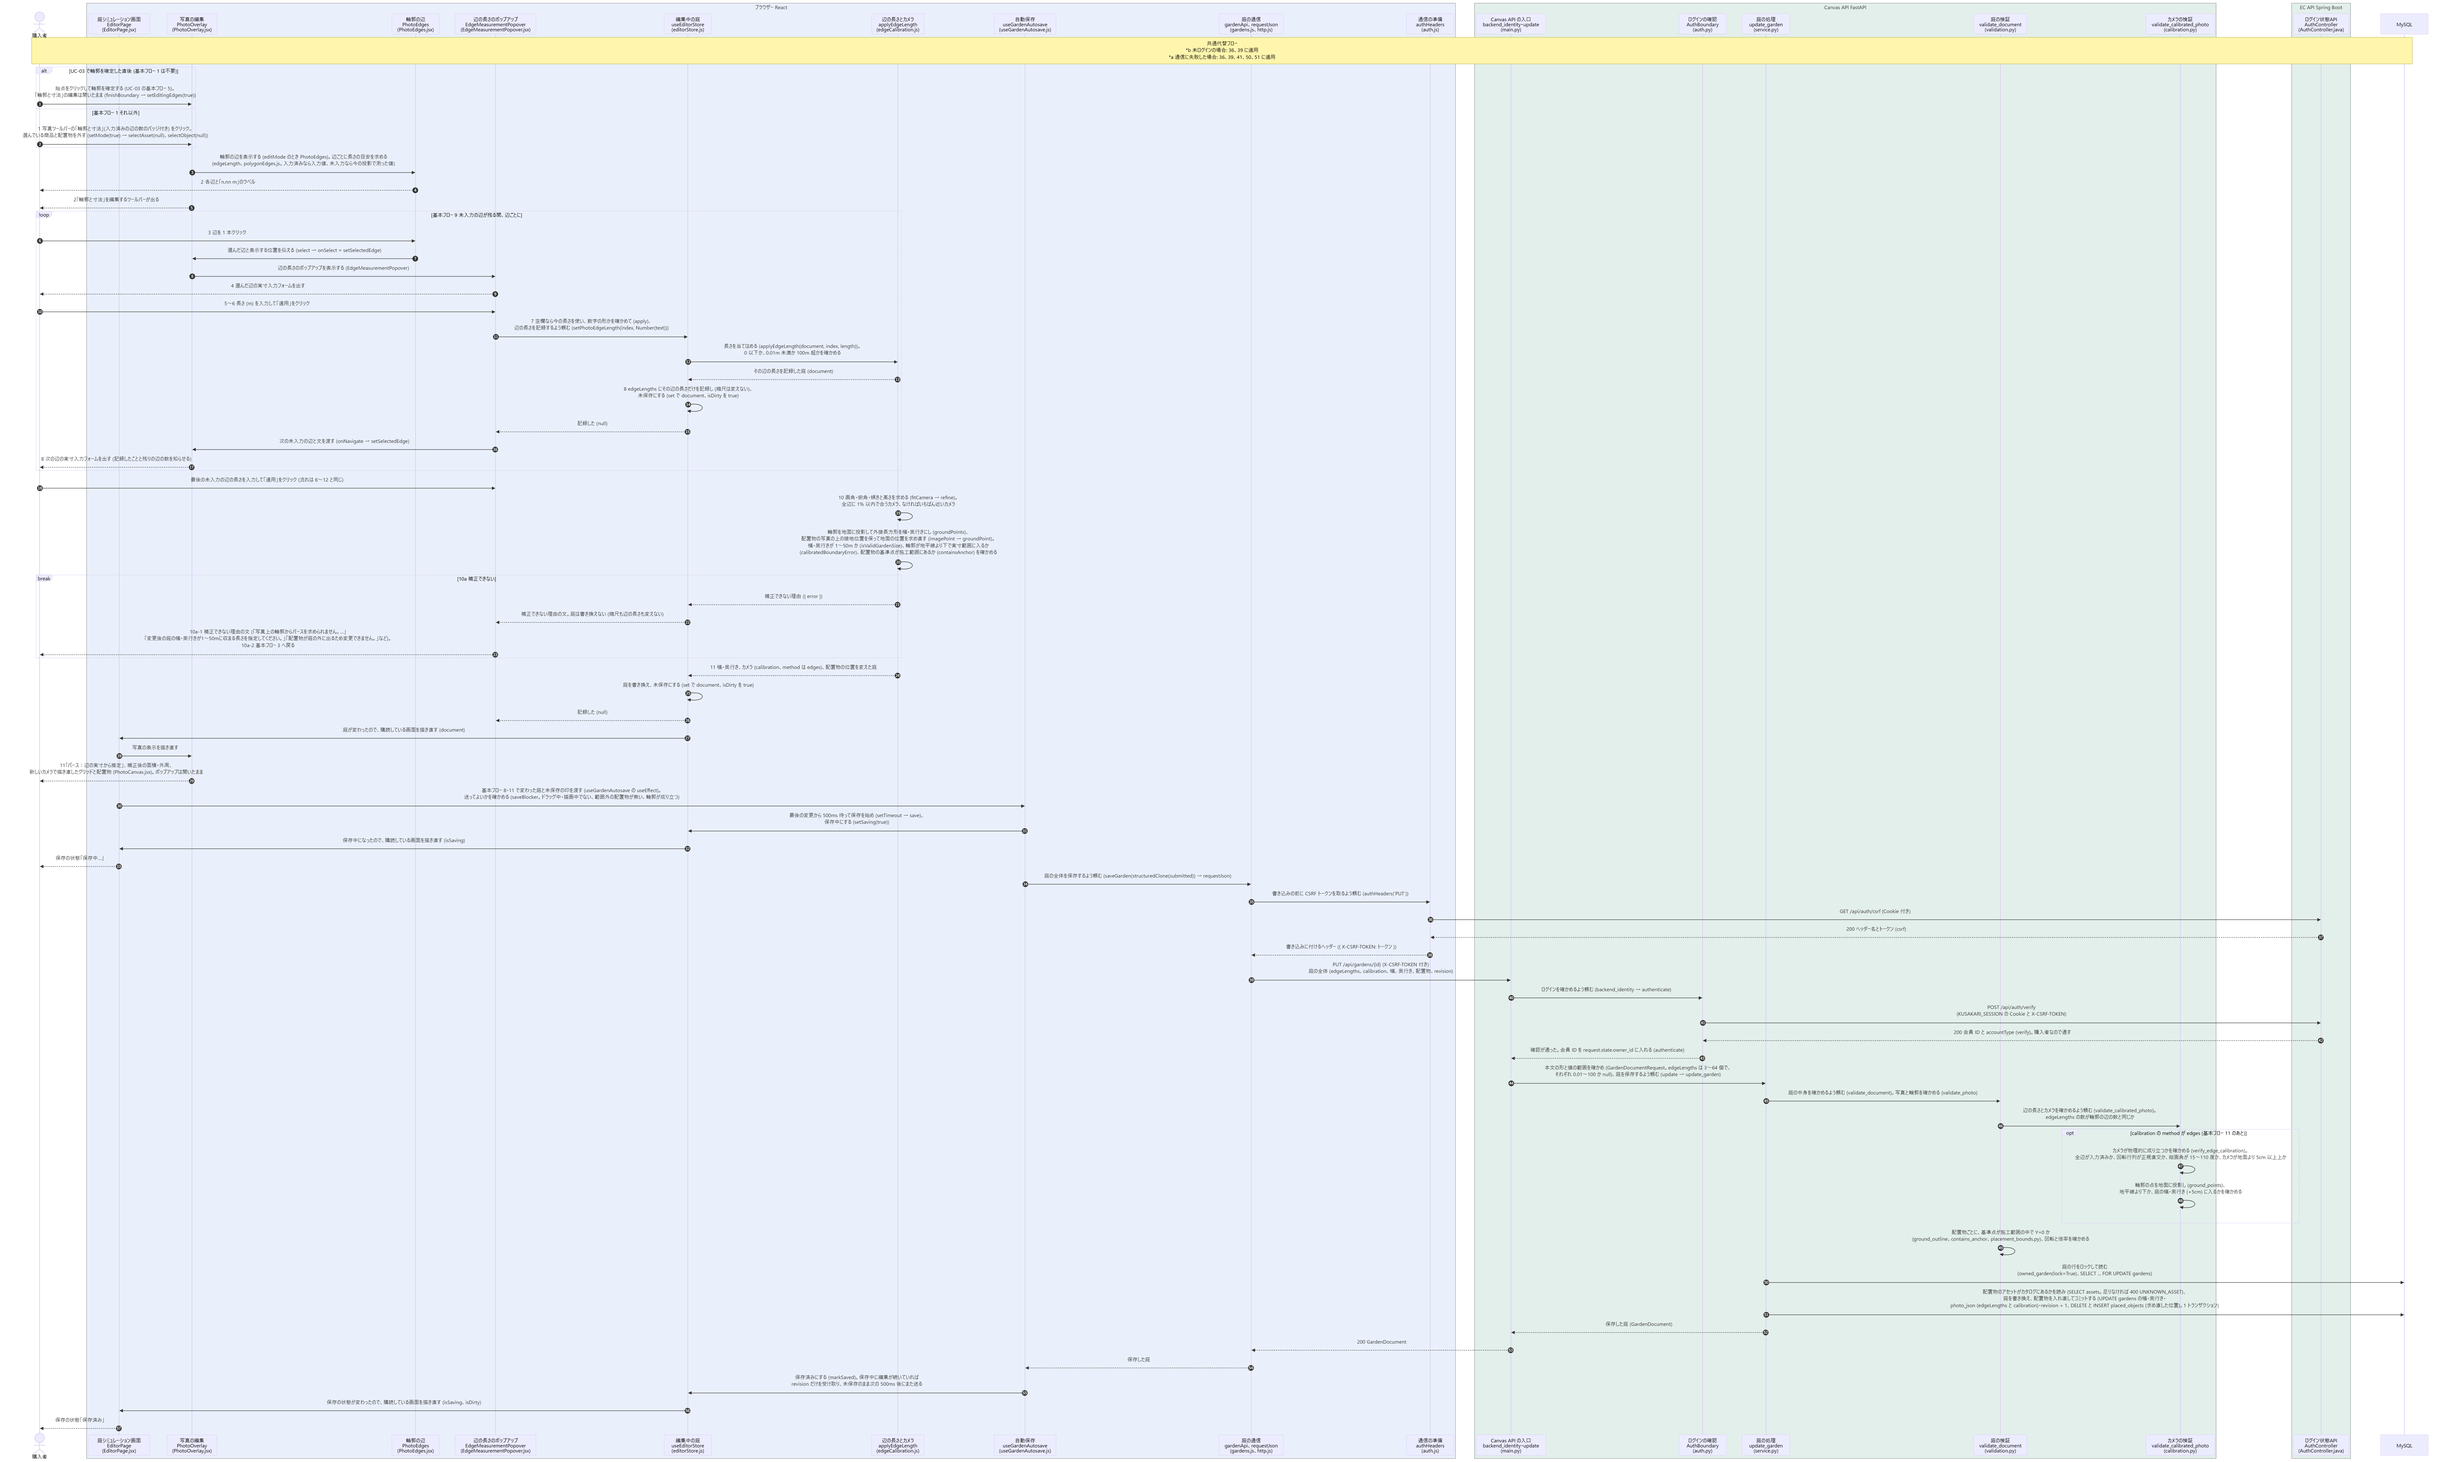
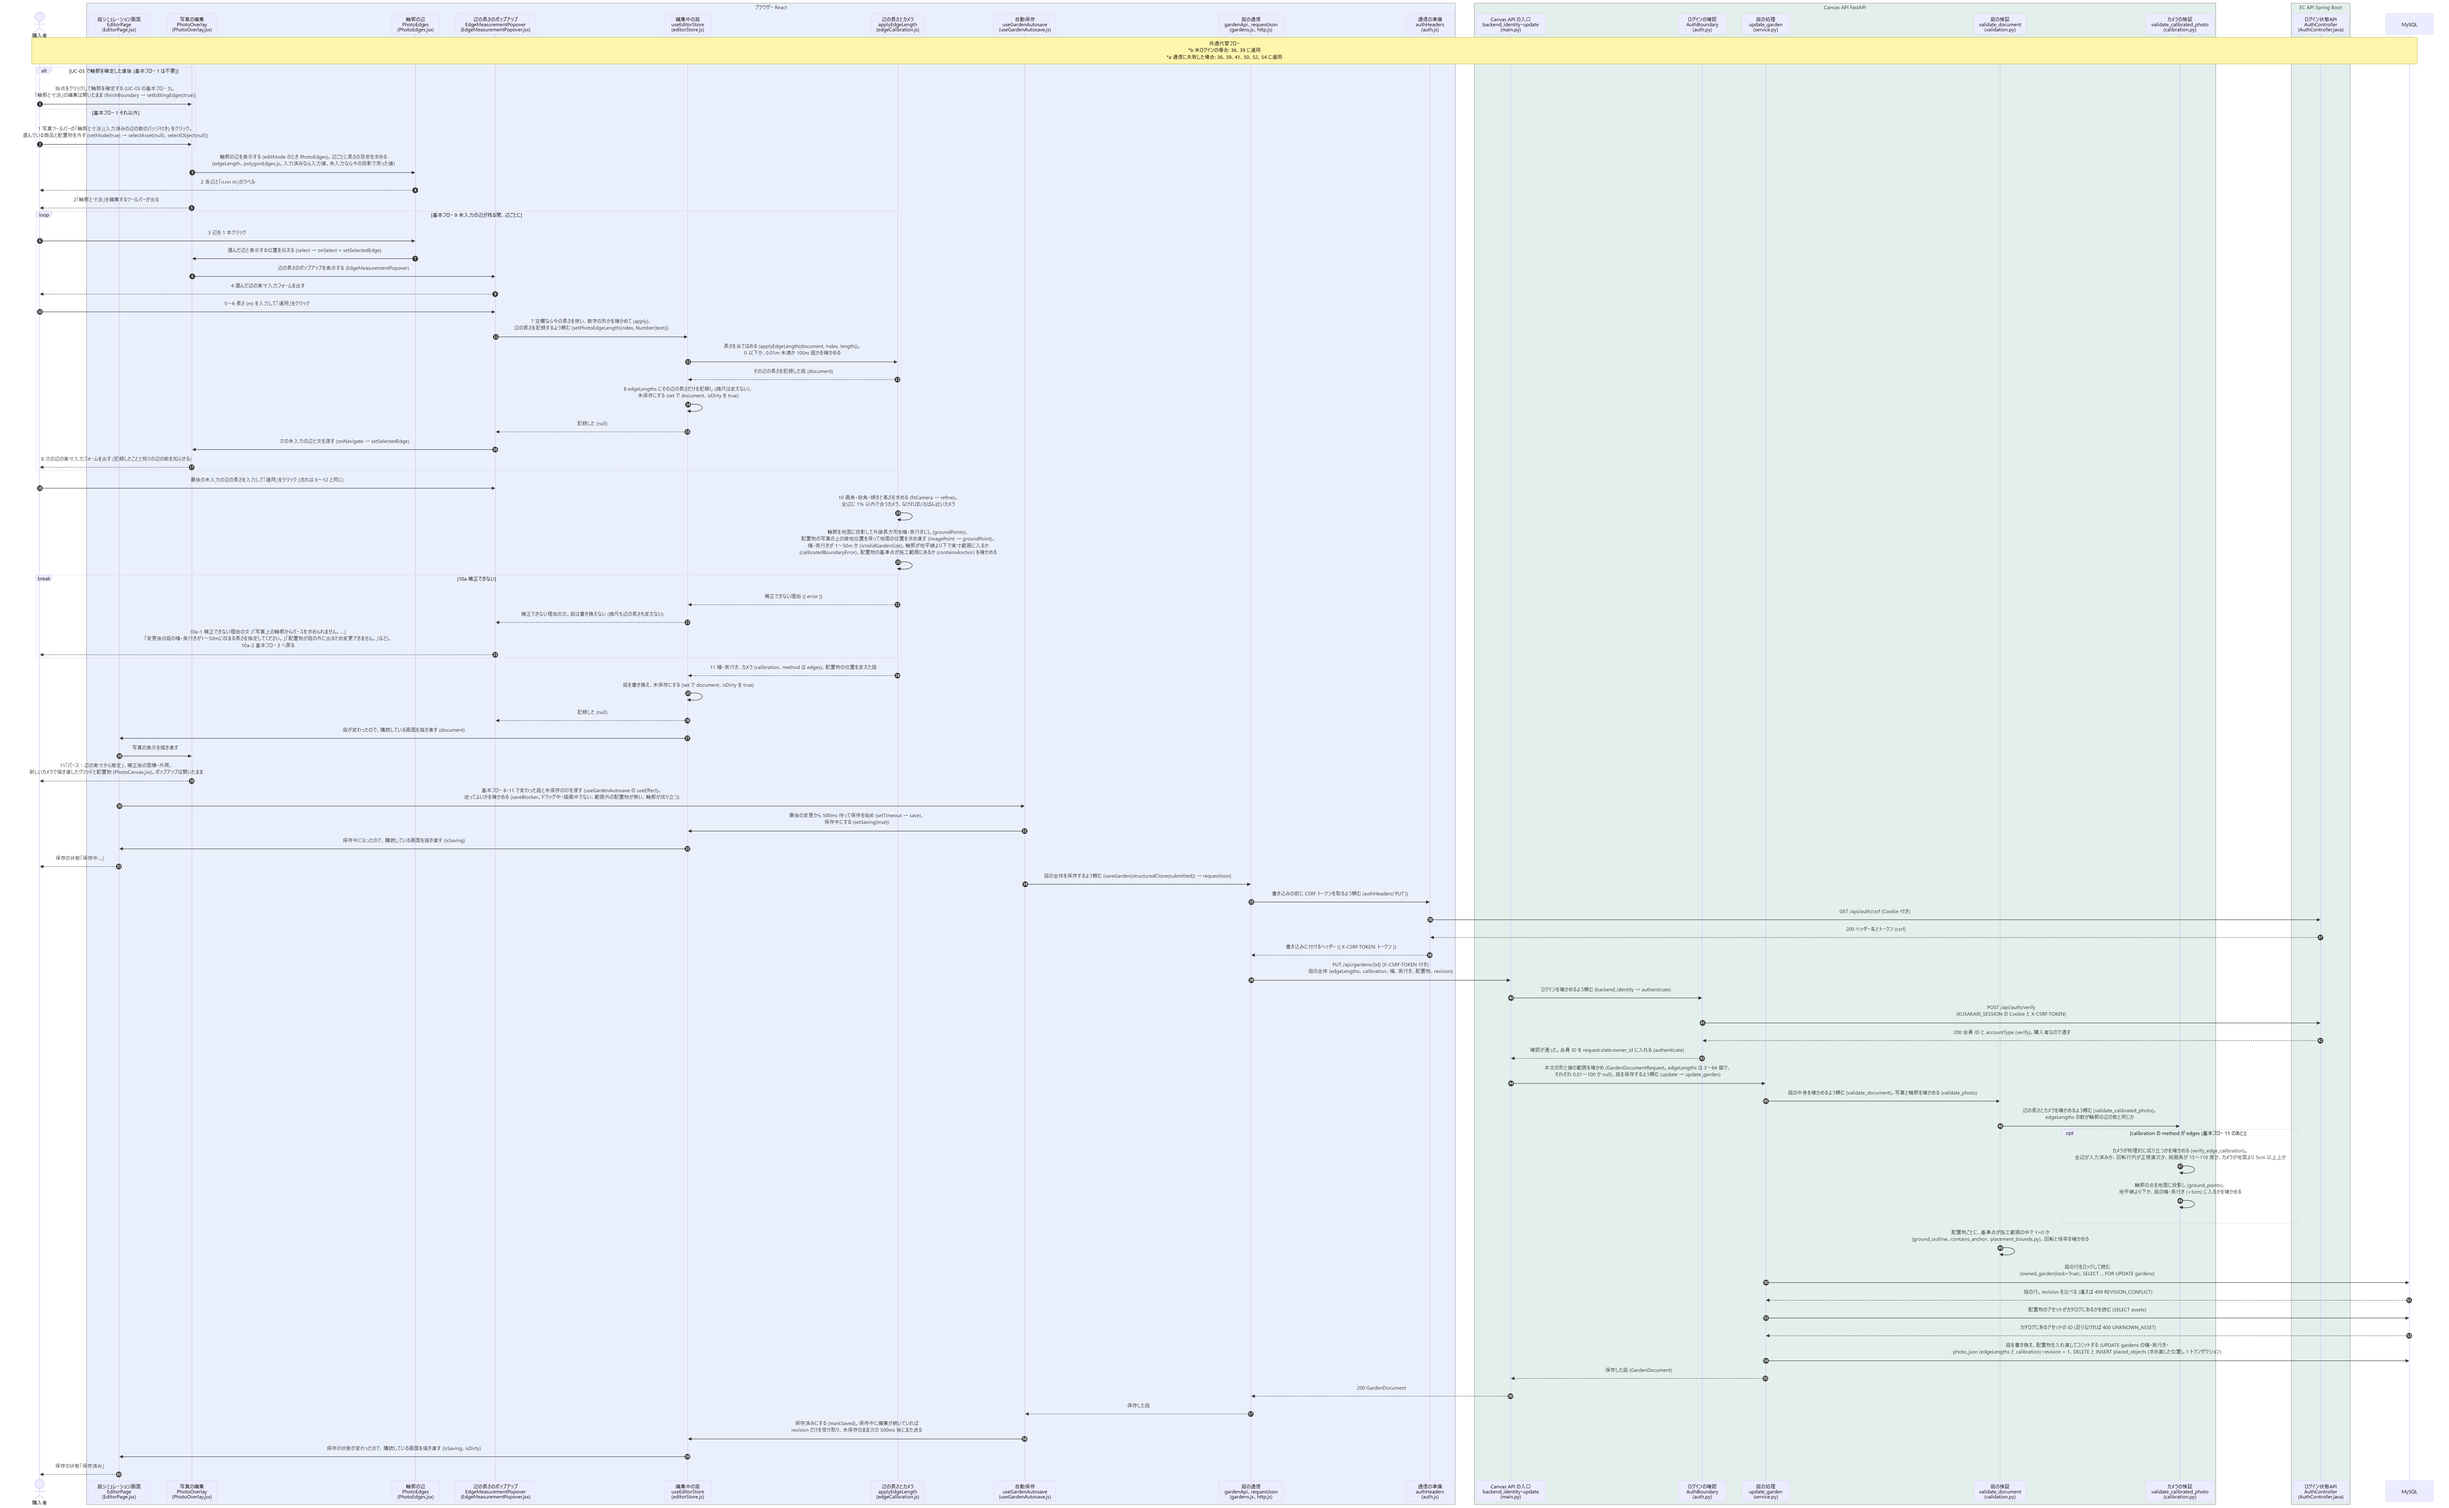
UC-03とUC-04の庭の保存のフローを分割

diff --git a/シーケンス図/kusakari-canvas/UC-04_施工範囲の実寸を定義する.md b/シーケンス図/kusakari-canvas/UC-04_施工範囲の実寸を定義する.md
@@ -27,7 +27,7 @@ sequenceDiagram
     end
     participant Db as MySQL
 
-    Note over User,Db: 共通代替フロー<br/>*b 未ログインの場合: 36、39 に適用<br/>*a 通信に失敗した場合: 36、39、41、50、51 に適用
+    Note over User,Db: 共通代替フロー<br/>*b 未ログインの場合: 36、39 に適用<br/>*a 通信に失敗した場合: 36、39、41、50、52、54 に適用
 
     alt UC-03 で輪郭を確定した直後 (基本フロー 1 は不要)
         User->>Overlay: 始点をクリックして輪郭を確定する (UC-03 の基本フロー 5)。<br/>「輪郭と寸法」の編集は開いたまま (finishBoundary → setEditingEdges(true))
@@ -91,7 +91,10 @@ sequenceDiagram
     end
     Valid->>Valid: 配置物ごとに、基準点が施工範囲の中で Y=0 か<br/>(ground_outline、contains_anchor、placement_bounds.py)、回転と倍率を確かめる
     Svc->>Db: 庭の行をロックして読む<br/>(owned_garden(lock=True)、SELECT ... FOR UPDATE gardens)
-    Svc->>Db: 配置物のアセットがカタログにあるかを読み (SELECT assets。足りなければ 400 UNKNOWN_ASSET)、<br/>庭を書き換え、配置物を入れ直してコミットする (UPDATE gardens の幅・奥行き・<br/>photo_json (edgeLengths と calibration)・revision + 1、DELETE と INSERT placed_objects (求め直した位置)。1 トランザクション)
+    Db-->>Svc: 庭の行。revision を比べる (違えば 409 REVISION_CONFLICT)
+    Svc->>Db: 配置物のアセットがカタログにあるかを読む (SELECT assets)
+    Db-->>Svc: カタログにあるアセットの ID (足りなければ 400 UNKNOWN_ASSET)
+    Svc->>Db: 庭を書き換え、配置物を入れ直してコミットする (UPDATE gardens の幅・奥行き・<br/>photo_json (edgeLengths と calibration)・revision + 1、DELETE と INSERT placed_objects (求め直した位置)。1 トランザクション)
     Svc-->>Main: 保存した庭 (GardenDocument)
     Main-->>Http: 200 GardenDocument
     Http-->>Auto: 保存した庭

diff --git a/シーケンス図/kusakari-canvas/UC-03_施工範囲を指定・修正する.md b/シーケンス図/kusakari-canvas/UC-03_施工範囲を指定・修正する.md
@@ -26,7 +26,7 @@ sequenceDiagram
     end
     participant Db as MySQL
 
-    Note over User,Db: 共通代替フロー<br/>*b 未ログインの場合: 39、42 に適用<br/>*a 通信に失敗した場合: 39、42、44、49、50、51 に適用
+    Note over User,Db: 共通代替フロー<br/>*b 未ログインの場合: 39、42 に適用<br/>*a 通信に失敗した場合: 39、42、44、49、50、52、54 に適用
 
     Note over User,Store: 基本フロー 1〜7 施工範囲を指定する
     alt 基本フロー 1 写真をアップロードした直後
@@ -103,7 +103,10 @@ sequenceDiagram
         Note over Svc,Db: 結果: 先に庭の版を確かめ (owned_garden、SELECT gardens。違えば 409)、<br/>写真を S3 に置いて、data URL を imageKey に置き換える。
     end
     Svc->>Db: 庭の行をロックして読む<br/>(owned_garden(lock=True)、SELECT ... FOR UPDATE gardens)
-    Svc->>Db: 配置物のアセットがカタログにあるかを読み (SELECT assets。足りなければ 400 UNKNOWN_ASSET)、<br/>庭を書き換え、配置物を入れ直してコミットする (UPDATE gardens の photo_json と revision + 1、<br/>DELETE と INSERT placed_objects。with session.begin() の 1 トランザクション)
+    Db-->>Svc: 庭の行。revision を比べる (違えば 409 REVISION_CONFLICT)
+    Svc->>Db: 配置物のアセットがカタログにあるかを読む (SELECT assets)
+    Db-->>Svc: カタログにあるアセットの ID (足りなければ 400 UNKNOWN_ASSET)
+    Svc->>Db: 庭を書き換え、配置物を入れ直してコミットする (UPDATE gardens の photo_json と revision + 1、<br/>DELETE と INSERT placed_objects。with session.begin() の 1 トランザクション)
     Svc-->>Main: 保存した庭 (GardenDocument)
     Main-->>Http: 200 GardenDocument
     Http-->>Auto: 保存した庭
